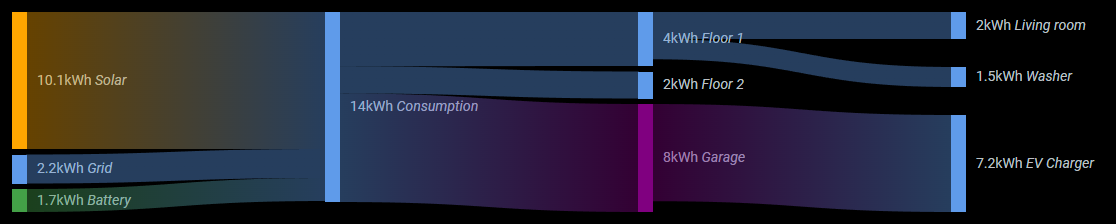
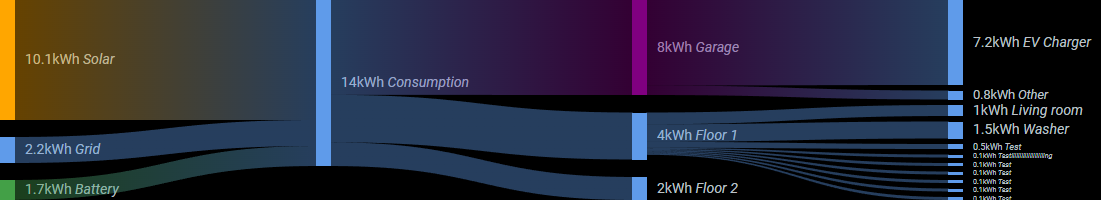
add 'remaining' to energy example

diff --git a/README.md b/README.md
@@ -100,19 +100,21 @@ A Home Assistant lovelace card to display a sankey chart. For example for power 
             - sensor.floor2
             - sensor.garage
     - entities:
+        - entity_id: sensor.garage
+          color: purple
+          remaining:
+            name: Other
+          children:
+            - sensor.ev_charger
         - entity_id: sensor.floor1
           children:
             - sensor.living_room
             - sensor.washer
         - entity_id: sensor.floor2
-        - entity_id: sensor.garage
-          color: purple
-          children:
-            - sensor.ev_charger
     - entities:
+        - sensor.ev_charger
         - sensor.living_room
         - sensor.washer
-        - sensor.ev_charger
 ```
 
 ## Development
